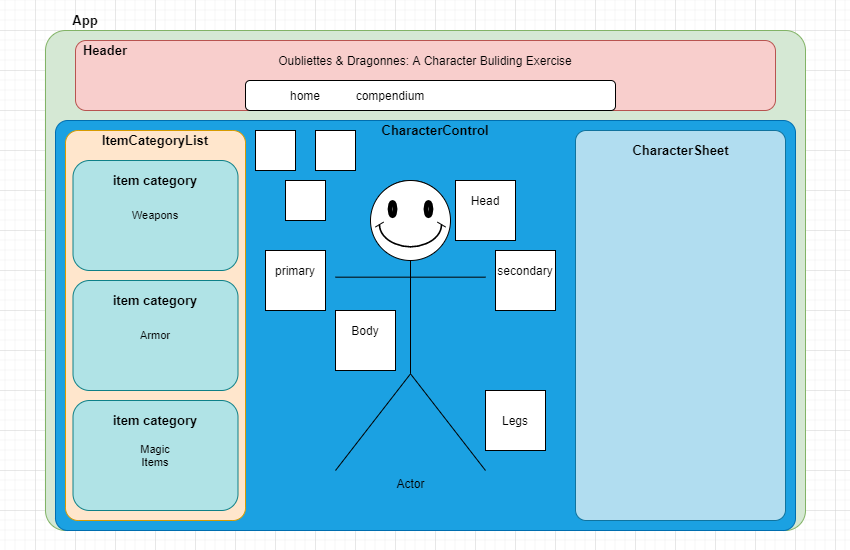
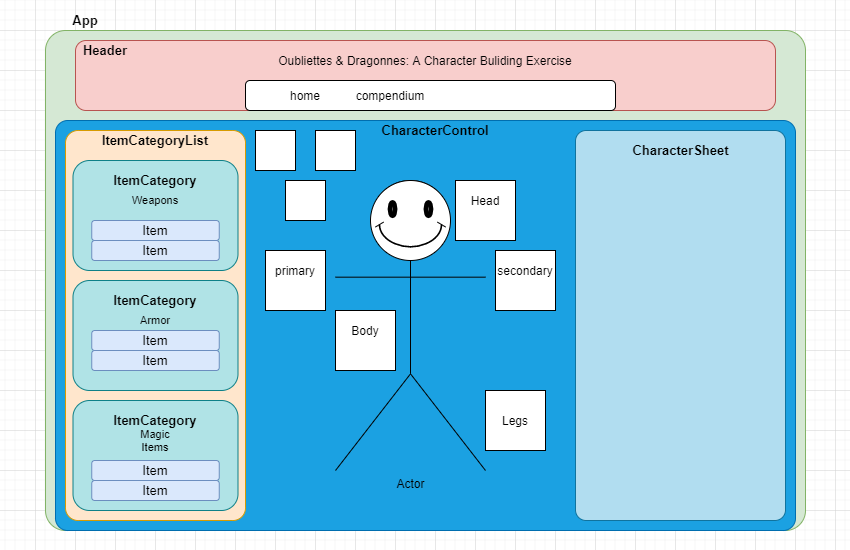
add groundwork component files

Changed region(s): [[0.0918, 0.7418, 0.2753, 0.9273], [0.0918, 0.3091, 0.2753, 0.4945], [0.0918, 0.5255, 0.2753, 0.68]]

diff --git a/character-builder/src/components/CharacterControl.js b/character-builder/src/components/CharacterControl.js
@@ -1,0 +1,21 @@
+import React from 'react';
+import CharacterSheet from './CharacterSheet';
+import ItemCategoryList from './ItemCategoryList';
+
+class CharacterControl extends React.Component {
+
+  constructor(props) {
+    super(props);
+    this.state = {};
+  }
+
+  render () {
+    return (
+      <React.Fragment>
+
+      </React.Fragment>
+    );
+  }
+}
+
+export default CharacterControl;

diff --git a/character-builder/src/components/App.js b/character-builder/src/components/App.js
@@ -1,10 +1,12 @@
 import React from 'react';
 import Header from './Header';
+import CharacterControl from './CharacterControl';
 
 function App() {
   return (
     <React.Fragment>
       <Header />
+      <CharacterControl/>
     </React.Fragment>
   );
 }

diff --git a/character-builder/src/components/CharacterSheet.js b/character-builder/src/components/CharacterSheet.js
@@ -1,0 +1,11 @@
+import React from 'react';
+
+function CharacterSheet(props) {
+  return (
+    <React.Fragment>
+      <h2>This is a Character sheet</h2>
+    </React.Fragment>
+  );
+}
+
+export default CharacterSheet;

diff --git a/Work.md b/Work.md
@@ -29,3 +29,5 @@
 1000-1200: more research, thumbing through some more tutorials for similar projects.  
 
 1300-1430: re-drawing mock-up addind color coding for easier thought of how to organize page
+
+1500-1600: continuing to plan out components
